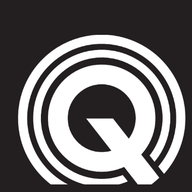
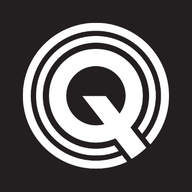
12

diff --git a/index.html b/index.html
@@ -14,15 +14,15 @@
 <meta name="format-detection" content="telephone=no">
 
 <!-- Apple touch icons (home screen on iPhone/iPad) -->
-<link rel="apple-touch-icon" href="assets/icon-180.png?v=13">
-<link rel="apple-touch-icon" sizes="180x180" href="assets/icon-180.png?v=13">
-<link rel="apple-touch-icon" sizes="192x192" href="assets/icon-192.png?v=13">
+<link rel="apple-touch-icon" href="assets/icon-180.png?v=14">
+<link rel="apple-touch-icon" sizes="180x180" href="assets/icon-180.png?v=14">
+<link rel="apple-touch-icon" sizes="192x192" href="assets/icon-192.png?v=14">
 
 <!-- Favicons -->
-<link rel="icon" type="image/png" sizes="32x32" href="assets/icon-32.png?v=13">
-<link rel="icon" type="image/png" sizes="16x16" href="assets/icon-16.png?v=13">
-<link rel="icon" type="image/png" sizes="192x192" href="assets/icon-192.png?v=13">
-<link rel="shortcut icon" href="assets/icon-32.png?v=13">
+<link rel="icon" type="image/png" sizes="32x32" href="assets/icon-32.png?v=14">
+<link rel="icon" type="image/png" sizes="16x16" href="assets/icon-16.png?v=14">
+<link rel="icon" type="image/png" sizes="192x192" href="assets/icon-192.png?v=14">
+<link rel="shortcut icon" href="assets/icon-32.png?v=14">
 
 <!-- PWA manifest (Android / desktop Chrome) -->
 <link rel="manifest" href="manifest.json">

diff --git a/_build_icons.py b/_build_icons.py
@@ -13,10 +13,12 @@ SRC = os.path.join(OUT, '_q_source.png')
 DARK_BG = (35, 31, 32, 255)  # matches the source's background
 
 
-def make_square(img):
-    """Pad the image to a square with the source background colour."""
+def make_square(img, padding_ratio=0.12):
+    """Pad the image to a square (with breathing room) in the source bg colour."""
     w, h = img.size
-    side = max(w, h)
+    content_side = max(w, h)
+    # Extra margin so the logo doesn't touch the icon edges
+    side = int(content_side / (1 - 2 * padding_ratio))
     canvas = Image.new('RGBA', (side, side), DARK_BG)
     canvas.paste(img, ((side - w) // 2, (side - h) // 2))
     return canvas
